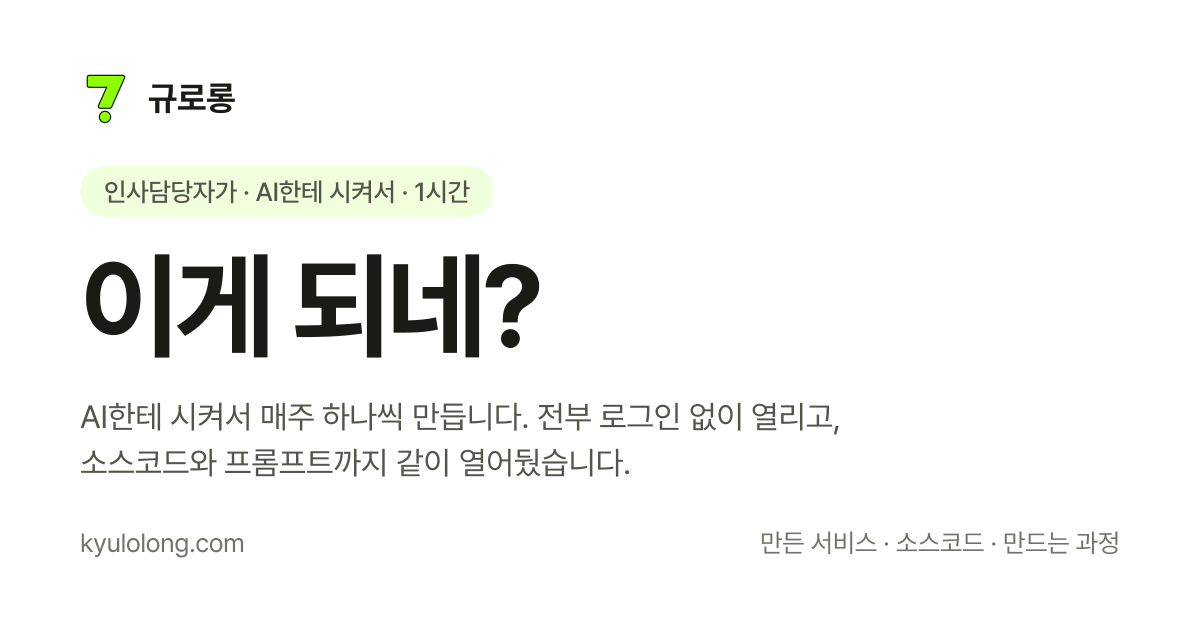
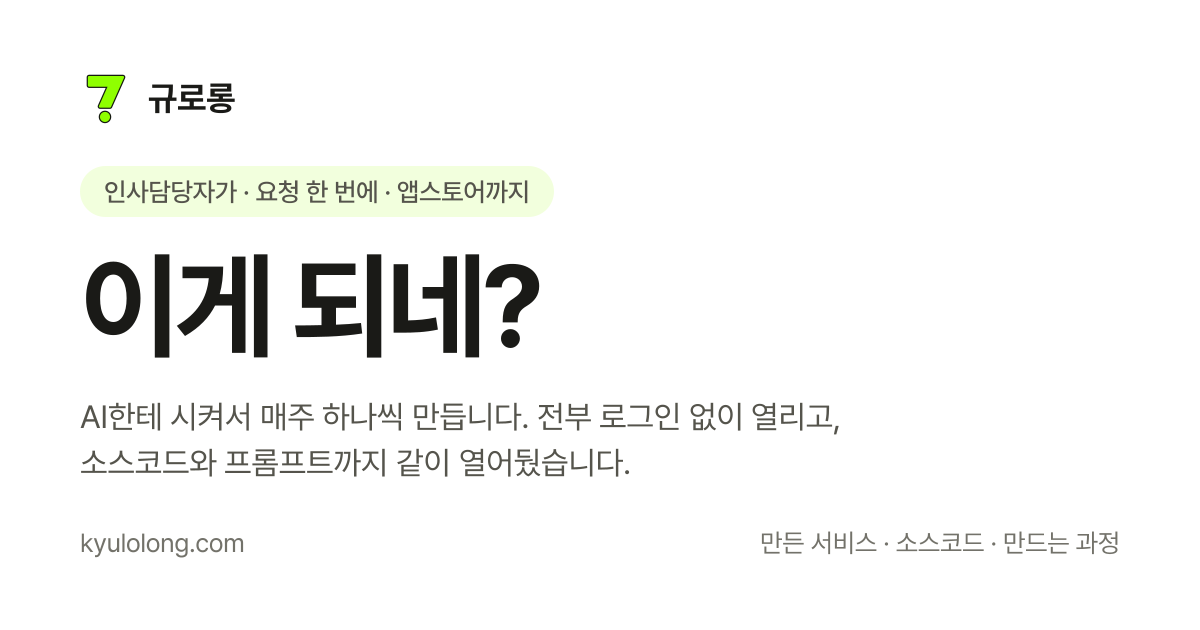
히어로 눈썹 줄의 1시간을 앱스토어까지로 바꾼다
맨 숫자라 잴 대상이 없어서 빠름이 아니라 가벼움으로 읽혔다. 카드의
buildTime 은 제목 바로 아래 붙어 "그 서비스가 2시간"이지만 히어로의
1시간은 걸릴 데가 없다. "얼마나 빨리"를 "얼마나 멀리"로 바꾸고,
서브카피의 "앱스토어에 올라간 것도 있습니다"가 그 줄을 받게 했다.

공유 카드(make-og)와 og:image alt 에도 같은 줄이 박혀 있었다.
한쪽만 고치면 링크 미리보기와 도착한 화면이 다른 말을 한다.

Changed region(s): [[0.2158, 0.2413, 0.4625, 0.3619]]

diff --git a/components/hero.tsx b/components/hero.tsx
@@ -22,8 +22,19 @@ export function Hero() {
        사이에 화면 반 개짜리 빈 칸이 생겨서, 넓은 게 아니라 끊긴 것처럼 보인다. */
     <section className="mx-auto w-full max-w-[1120px] px-6 pt-20 pb-4 sm:px-8 sm:pt-28 sm:pb-6">
       <div className="max-w-[46rem]">
-        {/* 문구는 인스타 썸네일에 이미 박혀 있는 그 줄이다. 릴스를 보고 넘어온
+        {/* 문구는 인스타 썸네일·소개글에 이미 박혀 있는 그 줄이다. 릴스를 보고 넘어온
             사람이 같은 얼굴을 만나야 한다. 여기만 다른 말을 쓰면 채널이 둘로 갈린다.
+
+            세 칸이 각각 다른 일을 한다 — 정체성 · 시작점 · 도달점. 그리고 어미가
+            `가 / 에 / 지` 로 전부 갈린다. 같은 어미로 끝나는 칸이 둘만 생겨도
+            문장이 아니라 나열로 읽히므로, 손볼 때 어미부터 볼 것.
+
+            ⚠ 예전엔 마지막 칸이 `1시간` 이었다. 여기서 뺀 이유는 이 줄에 **잴 대상이
+            없어서**다. 카드의 buildTime 은 제목·태그라인 바로 아래 붙어 "그 서비스가
+            2시간"이지만, 히어로의 맨 숫자는 걸릴 데가 없어서 빠름이 아니라 가벼움으로
+            읽힌다. 그래서 "얼마나 빨리"를 "얼마나 멀리"로 바꿨다 — 아래 서브카피의
+            "앱스토어에 올라간 것도 있습니다"가 이 줄을 받는다. 그 문장을 지우면
+            이 줄이 근거를 잃는다.
 
             알약을 씌우지 않는다 (DESIGN.md §6) — 못 누르는 라벨에 상자를 씌우면
             버튼으로 보이고, 이 화면에서 누를 것은 아래 하나여야 한다.
@@ -32,7 +43,7 @@ export function Hero() {
             한글 폰트로 떨어지고, 바로 아래 제목의 Pretendard 와 얼굴이 갈린다.
             고정폭은 숫자에만 쓴다 (CLAUDE.md 7번). */}
         <p className="text-ink-faint text-[13px] font-medium tracking-[0.01em]">
-          인사담당자가 · AI한테 시켜서 · 1시간
+          인사담당자가 · 요청 한 번에 · 앱스토어까지
         </p>
 
         {/* 브랜드명(규로롱 ← 뾰로롱)과 시리즈명과 방문자가 지었으면 하는 표정이

diff --git a/scripts/make-og.tsx b/scripts/make-og.tsx
@@ -87,7 +87,9 @@ function card() {
             borderRadius: 999,
           }}
         >
-          인사담당자가 · AI한테 시켜서 · 1시간
+          {/* 히어로 눈썹 줄과 같은 문구다 (components/hero.tsx).
+              한쪽만 고치면 링크 미리보기와 도착한 화면이 다른 말을 한다. */}
+          인사담당자가 · 요청 한 번에 · 앱스토어까지
         </div>
 
         <div

diff --git a/lib/seo.ts b/lib/seo.ts
@@ -39,7 +39,7 @@ export const OG_IMAGE = {
   url: "/og.png",
   width: 1200,
   height: 630,
-  alt: "규로롱 — 이게 되네? 인사담당자가 AI한테 시켜서 1시간",
+  alt: "규로롱 — 이게 되네? 인사담당자가 · 요청 한 번에 · 앱스토어까지",
 } as const;
 
 /**
